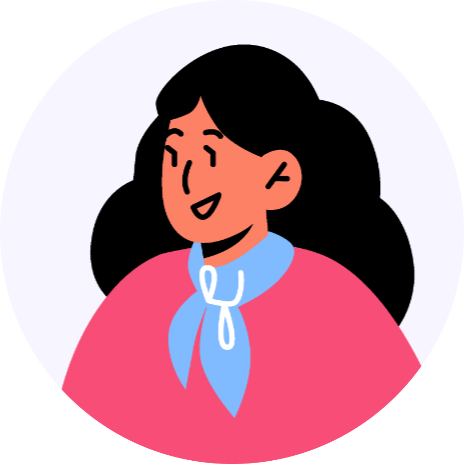
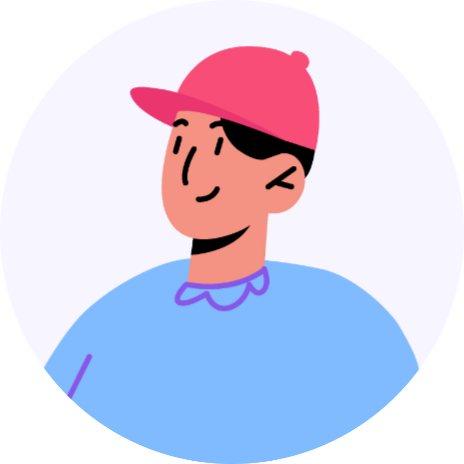
Update: PageEdit 수정

diff --git a/front-end/flory/src/components/MyPage/MyPageEditModal/MyPageEditModal.tsx b/front-end/flory/src/components/MyPage/MyPageEditModal/MyPageEditModal.tsx
@@ -1,9 +1,10 @@
-import React, { useState } from "react"
+import React, { useState, useRef } from "react"
 import { FontAwesomeIcon } from "@fortawesome/react-fontawesome"
 import Avatar from "../../common/Avatar/Avatar"
 import BasicModal from "../../common/Modal/BasicModal"
-import { SForm } from "./styles"
+import { ImgIcon, SForm } from "./styles"
 import { faUser } from "@fortawesome/free-solid-svg-icons"
+import ModifyButtonImg from "../../../assets/imgs/button/ModifyButton.png";
 
 const returnPickStatus = (idx: number, pickedIdx: number) => {
   if (idx === pickedIdx) return "pick"
@@ -11,16 +12,58 @@ const returnPickStatus = (idx: number, pickedIdx: number) => {
 }
 
 const MyPageEditModal = () => {
-  const imgIdxList = ["0", "1", "2", "3", "4", "5", "6", "7", "8"]
+  const imgIdxList = ["0", "1", "2", "3", "4", "5", "6", "7", "8", "9","10"]
   const [nickName, setNickName] = useState("")
   const [pickedIdx, setPickedIdx] = useState(0)
+
+  const selectFile = useRef<HTMLInputElement | null>(null);; // Icon onClick에 input File을 달기 위한 ref
+
+  const [imgBase64, setImgBase64] = useState(""); // 미리보기 파일
+  const [imgFile, setImgFile] = useState(""); // 선택한 이미지 파일
+
 
   const handlePickImg = (idx: number) => {
     setPickedIdx(idx)
   }
 
+  // 선택이미지 미리보기
+  const handleChangePreview = (e: any) => {
+    console.log(e.target.files);
+    if (e.target.files) {
+        let reader = new FileReader();
+        reader.readAsDataURL(e.target.files[0]);
+        // 1. 파일을 읽어 버퍼에 저장합니다.
+        // 파일 상태 업데이트
+        reader.onloadend = () => {
+            // 2. 읽기가 완료되면 아래코드가 실행됩니다.
+            const base64 = reader.result;
+            if (base64) {
+                var base64Sub = base64.toString();
+                setImgBase64(base64Sub);
+                // 파일 base64 상태 업데이트
+                console.log(imgBase64);
+            }
+        };
+        setImgFile(e.target.files[0]);
+        console.log(imgFile);
+    }
+};
+
+
   return (
-    <BasicModal modalButton={<button>프로필 변경</button>}>
+    <BasicModal modalButton={<button>
+      <ImgIcon
+        onClick={() => {
+          // 
+        }}
+      >
+        <Avatar
+          size={"big"}
+          imgIdx={0}
+        />
+        <img src={ModifyButtonImg} className="modifyButtonImg"></img>
+      </ImgIcon>
+    </button>}>
       <h3>프로필 설정</h3>
       <SForm>
         <p>닉네임 변경</p>
@@ -35,9 +78,26 @@ const MyPageEditModal = () => {
         </div>
         <p>프로필 사진 변경</p>
         <div className="image__wrapper">
+          <span key={11} className="image__btn" onClick={() => handlePickImg(11)}>
+            <input
+              type="file"
+              accept=".jpg, .png"
+              style={{ display: "none" }}
+              ref={(ref) => {
+                selectFile.current = ref;
+              }} //Avatar에서 input에 접근
+              onChange={handleChangePreview}
+            />
+            <Avatar
+              onClick={() => selectFile.current?.click()}
+              imgIdx={11}
+              key={11}
+              status={returnPickStatus(11, pickedIdx)}
+            />
+          </span>
           {imgIdxList.map((item, idx) => {
             return (
-              <span className="image__btn" onClick={() => handlePickImg(idx)}>
+              <span key={idx} className="image__btn" onClick={() => handlePickImg(idx)}>
                 <Avatar
                   imgIdx={item}
                   key={idx}

diff --git a/front-end/flory/src/pages/MyPage/MyPage.tsx b/front-end/flory/src/pages/MyPage/MyPage.tsx
@@ -1,12 +1,12 @@
 import React from "react";
 import styled from "styled-components";
-import { ImgIcon, SMyPage } from "./styles";
+import { SMyPage } from "./styles";
 import { useNavigate } from "react-router-dom";
 import BasicTabs from "../../components/common/Tabs/BasicTabs";
 import BasicModal from "../../components/User/UserLoginErrorModal/UserLoginErrorModal"
 import MyPageEditModal from "../../components/MyPage/MyPageEditModal/MyPageEditModal"
 import Pie from "../../components/common/Pie/Pie";
-import FlowerImg from "./Spring.png";
+import FlowerImg from "../../assets/imgs/flower_icon/Red Flower.png";
 import Post from "../../components/common/Post/Post";
 import Navbar from "../../components/common/Navbar/Navbar";
 import { FontAwesomeIcon } from "@fortawesome/react-fontawesome";
@@ -100,31 +100,11 @@ const MyPage = () => {
       <ProfileCard
             width="100%"
             header={
-              <>
-               <input
-                  type="file"
-                  accept=".jpg, .png"
-                  style={{ display: "none" }}
-                  // ref={selectFile} //EditIcon 에서 input에 접근 하기위해 useRef사용
-                  // onChange={handleChangePreview}
-                />
-                <ImgIcon
-                  onClick={() => {
-                    // 
-                  }}
-                >
-                  <Avatar
-                    size={"big"}
-                    imgIdx={1}
-                  />
-                  
-                </ImgIcon>
-                <MyPageEditModal />     
-              </>
+              <MyPageEditModal />     
             }
             name={"이름"}
             body={
-              <div style={{ textAlign: "center" }}>이메일</div>
+              <div style={{ textAlign: "center", padding: "0.3vh" }}>이메일</div>
             }
             height="100%"
             className="profile"

diff --git a/front-end/flory/src/components/common/Avatar/Avatar.tsx b/front-end/flory/src/components/common/Avatar/Avatar.tsx
@@ -1,12 +1,12 @@
 import { SAvatar } from "./styles"
 
-function Avatar({ size, status, imgIdx }: any): JSX.Element {
+function Avatar({ size, status, imgIdx, onClick }: any): JSX.Element {
   const imgSrc = imgIdx
     ? require(`../../../assets/imgs/profile_icon/profile${imgIdx}.png`)
     : require(`../../../assets/imgs/profile_icon/profile0.png`)
 
   return (
-    <SAvatar size={size} status={status}>
+    <SAvatar size={size} status={status} onClick={onClick}>
       <img src={imgSrc} />
     </SAvatar>
   )

diff --git a/front-end/flory/src/components/MyPage/MyPageEditModal/styles.tsx b/front-end/flory/src/components/MyPage/MyPageEditModal/styles.tsx
@@ -32,3 +32,17 @@ export const SForm = styled.form`
     }
   }
 `
+
+export const ImgIcon = styled.div`
+  display: flex;
+  flex-direction: row;
+  align-items: end;
+  postion: relative;
+
+  .modifyButtonImg{
+    width: 6.5vh;
+    position: absolute;
+    left: 55%;
+  }
+`;
+

diff --git a/front-end/flory/src/pages/MyPage/styles.tsx b/front-end/flory/src/pages/MyPage/styles.tsx
@@ -57,9 +57,4 @@ export const SMyPage = styled.div`
   }
 `;
 
-export const ImgIcon = styled.div`
-  display: flex;
-  flex-direction: row;
-  align-items: end;
-`;
 
